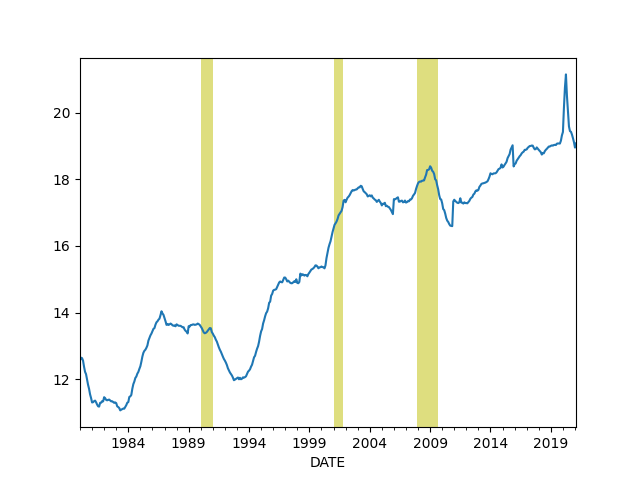
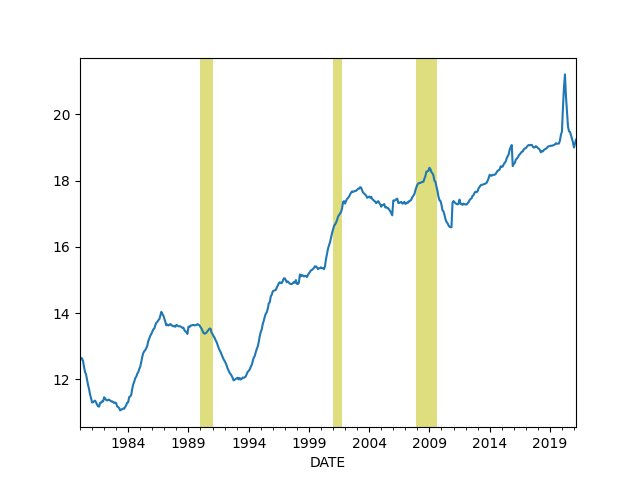
-

diff --git a/en/2019/05/stats.md b/en/2019/05/stats.md
@@ -340,14 +340,14 @@ plt.savefig('gdp-ism.png')
 
 <a name="cpyoy"></a>
 
-## Profits
+## Profits YoY
 
 ```python
 import pandas as pd, datetime
 from pandas_datareader import data
 
 today = datetime.datetime.now()
-start=datetime.datetime(1980, 1, 1)
+start=datetime.datetime(2000, 1, 1)
 end=datetime.datetime(today.year, today.month, today.day)
 cols = ['CPROFIT']
 df = data.DataReader(cols, 'fred', start, end)
@@ -361,10 +361,10 @@ plt.savefig('profit.png')
 ```text
              CPROFIT      cpyoy
 DATE                           
-2019-10-01  2311.272   1.260370
 2020-01-01  2035.030  -6.700416
 2020-04-01  1826.137 -19.309944
 2020-07-01  2325.730   3.528294
+2020-10-01  2294.300  -0.734314
 ```
 
 ![](profit.png)
@@ -636,11 +636,11 @@ plt.savefig('10yrgld.png')
 ```text
             DGS10  GOLDAMGBD228NLBM
 DATE                               
-2021-04-26   1.58           1779.65
-2021-04-27   1.63           1780.90
-2021-04-28   1.63           1764.15
-2021-04-29   1.65           1774.65
-2021-04-30    NaN           1768.80
+2021-05-03   1.63               NaN
+2021-05-04   1.61           1784.95
+2021-05-05   1.59           1778.05
+2021-05-06   1.58           1793.15
+2021-05-07    NaN           1820.50
 ```
 
 ![](10yrgld.png)
@@ -772,10 +772,10 @@ plt.savefig('debt.png')
 
 ```text
 DATE
-2020-11-01    19.230303
-2020-12-01    19.109282
-2021-01-01    18.949615
-2021-02-01    19.074692
+2020-12-01    19.154885
+2021-01-01    19.001602
+2021-02-01    19.120111
+2021-03-01    19.237312
 Freq: MS, Name: debt, dtype: float64
 ```
 
